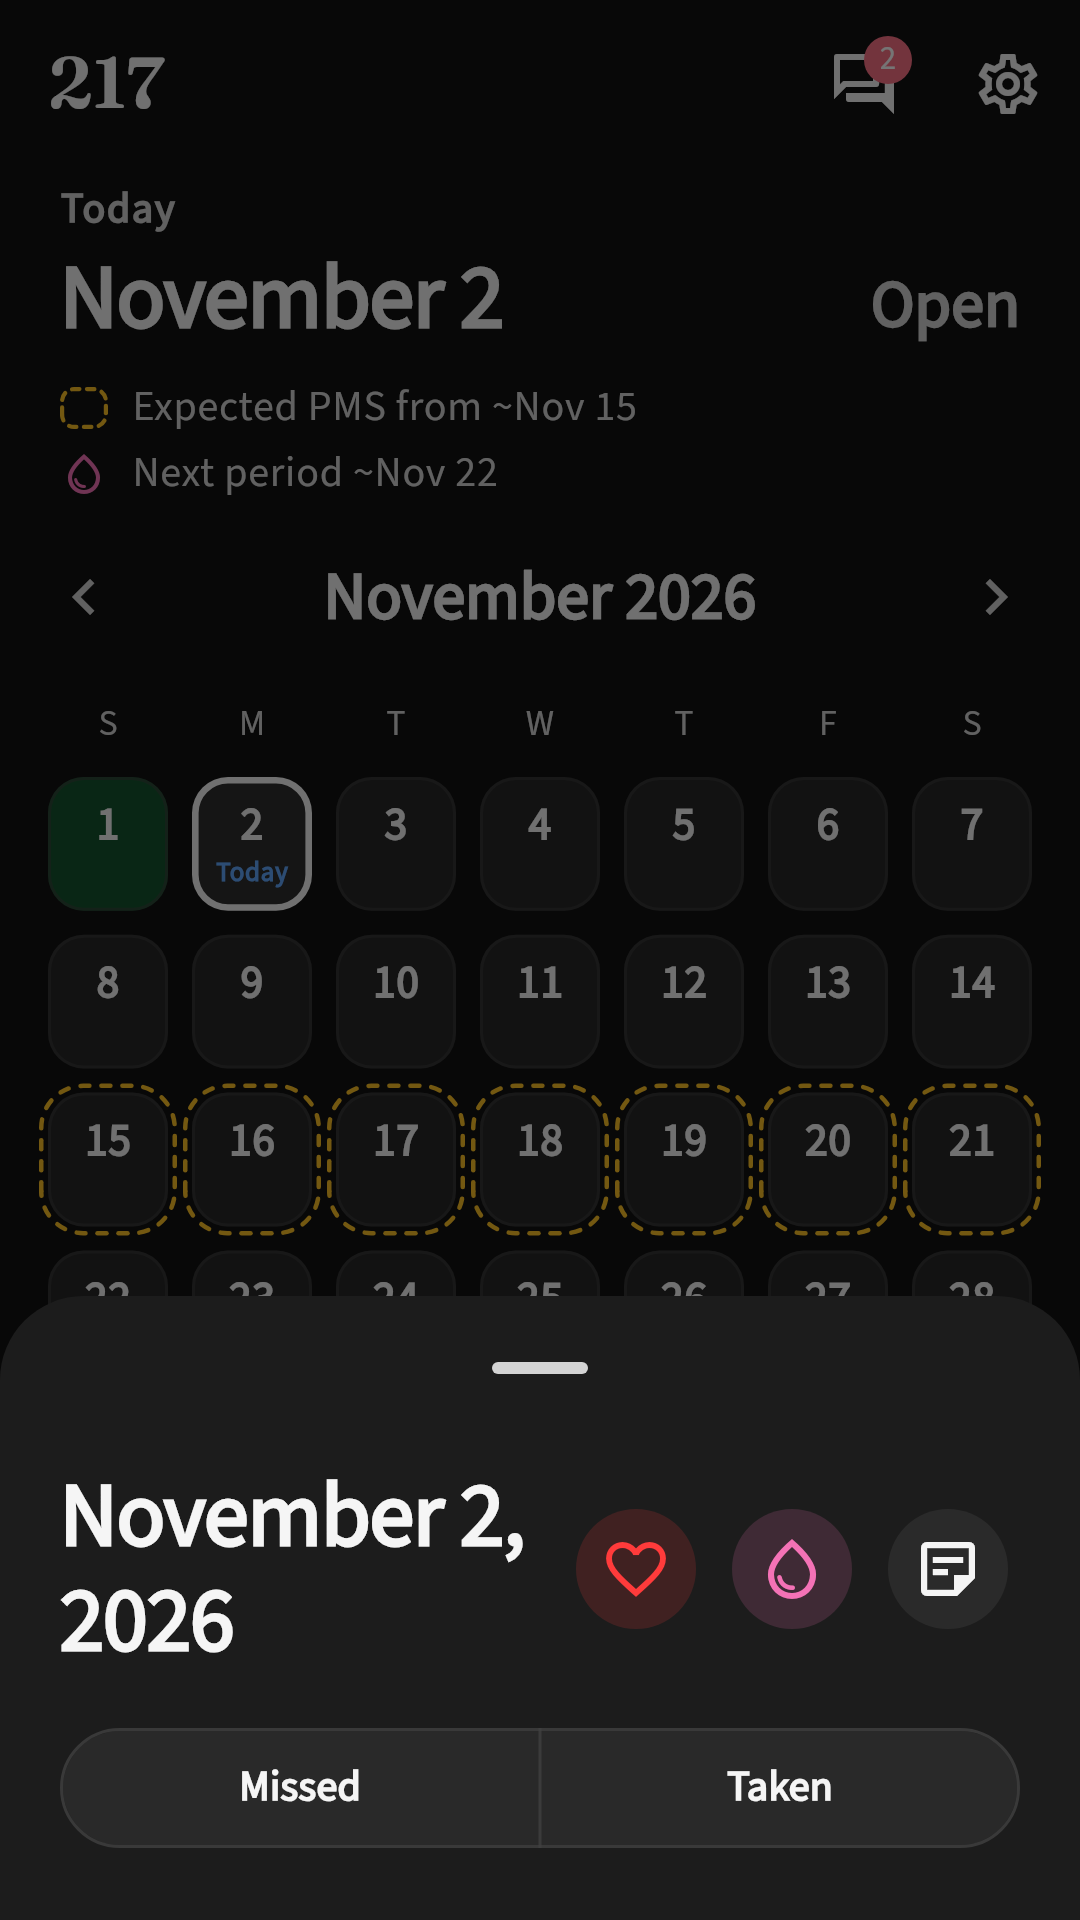
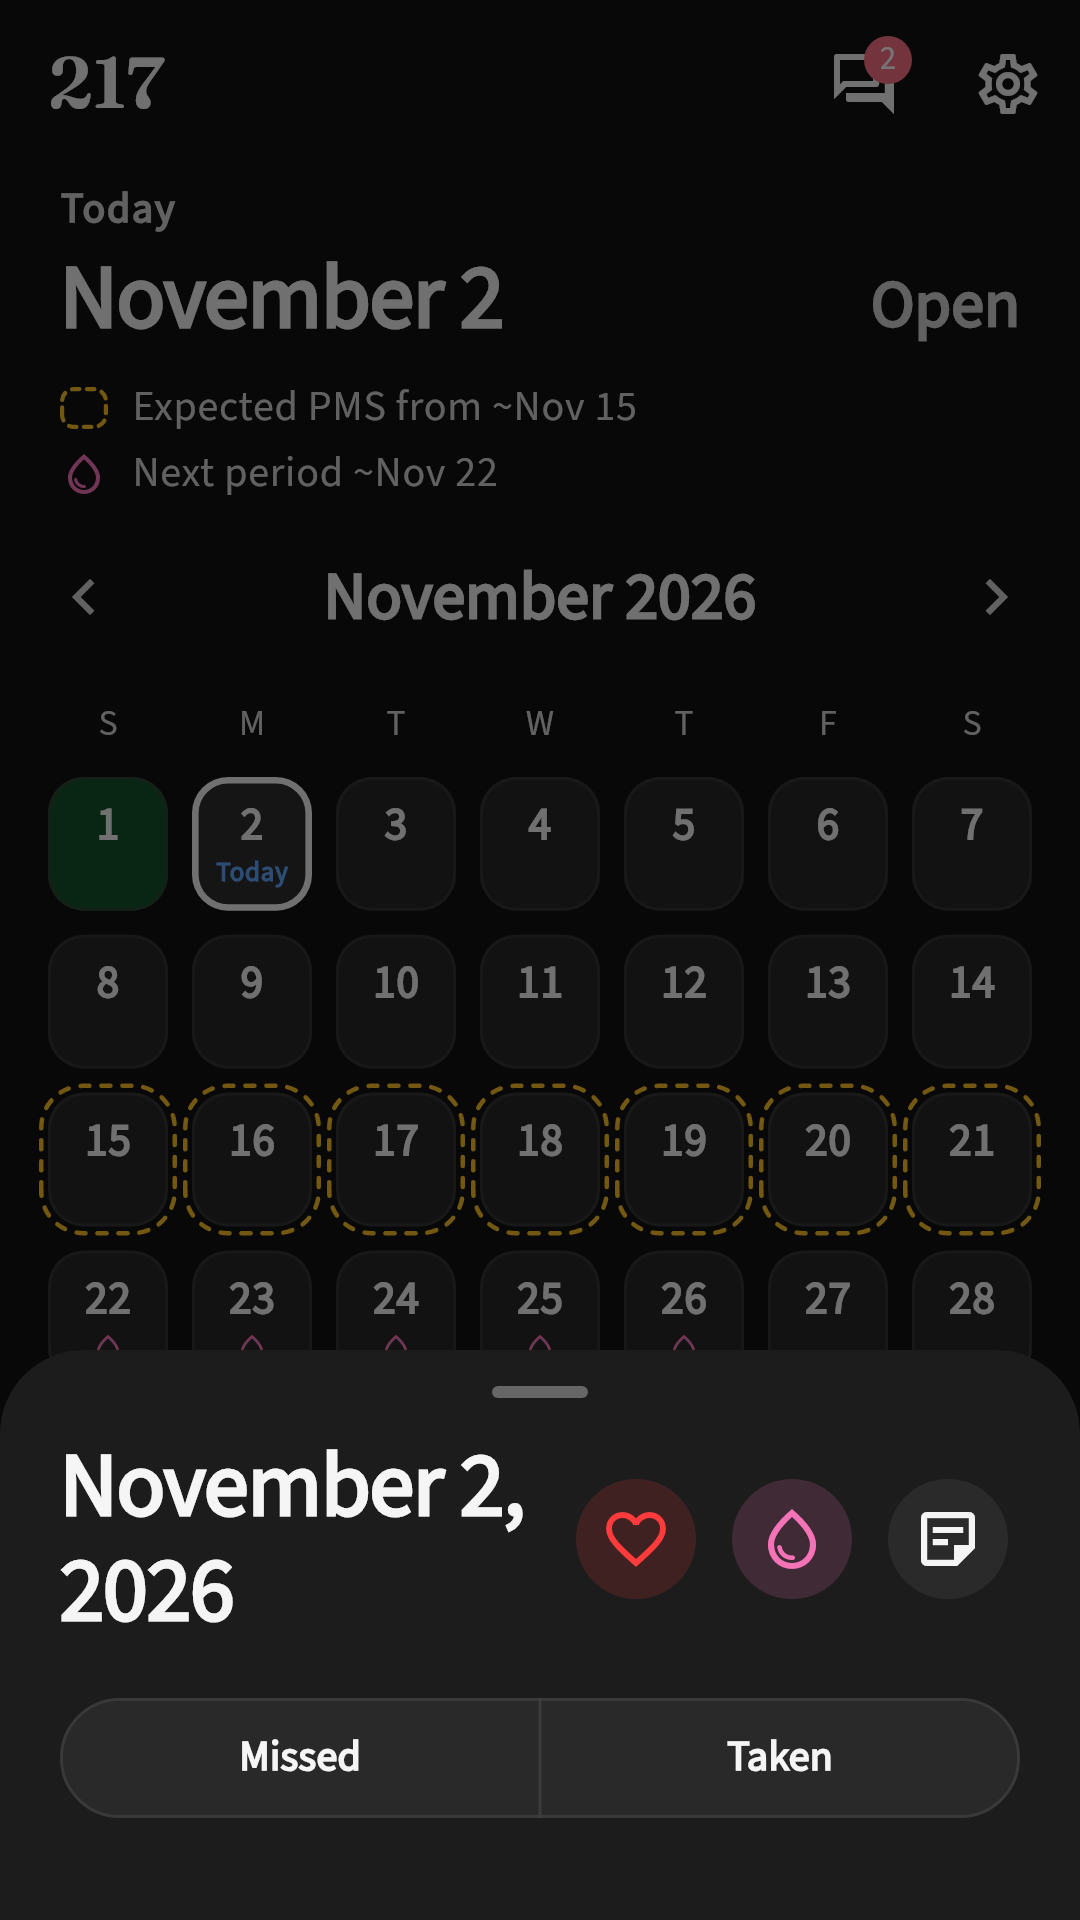
feat(calendar): pull the day sheet up for more (owner and partner) (#114)
* feat(calendar): pull the partner day sheet up for more

The read-only day sheet rests at the owner's size and can be pulled up to
list the day's predictions (expected PMS, predicted period) and the whole
note. Swiping it down dismisses it. Days with nothing more stay put.

* feat(calendar): pull the day sheet up for both owner and partner

One _showDaySheet builds the sheet for both sides (editable for the owner,
read-only for a partner); both can pull it up for predictions and the
whole note, which follows edits made in the sheet.

* chore(assets): re-render store screenshots

---------

diff --git a/frontend/lib/src/screens/day_summary.dart b/frontend/lib/src/screens/day_summary.dart
@@ -596,6 +596,154 @@ Future<void> showDayNoteCard(
   );
 }
 
+/// A day sheet (editable for the owner, read-only for a partner) that can be
+/// pulled up: at rest it is just [sheet]; open it also lists the day's
+/// predictions and the whole note. Swiping it down past its resting height
+/// dismisses it.
+class ExpandableDaySheet extends StatelessWidget {
+  const ExpandableDaySheet({
+    super.key,
+    required this.strings,
+    required this.palette,
+    required this.day,
+    required this.notes,
+    required this.cycleKind,
+    required this.sheet,
+  });
+
+  final Strings strings;
+  final AppPalette palette;
+  final DateTime day;
+
+  /// The day's note, followed live (the owner can change it from [sheet]).
+  final ValueListenable<String> notes;
+  final CycleDayKind cycleKind;
+
+  /// The sheet shown at rest.
+  final Widget sheet;
+
+  /// Height the resting sheet needs, before text scaling.
+  static const _restingHeight = 190.0;
+
+  @override
+  Widget build(BuildContext context) {
+    final scheme = Theme.of(context).colorScheme;
+    final textTheme = Theme.of(context).textTheme;
+    final brightness = Theme.of(context).brightness;
+    final period = App217Colors.period(brightness, palette);
+    final pms = App217Colors.pms(brightness, palette);
+
+    Widget row(Key key, String label, Widget mark) => Padding(
+          key: key,
+          padding: const EdgeInsets.symmetric(vertical: 6),
+          child: Row(children: [
+            SizedBox(width: 20, child: Center(child: mark)),
+            const SizedBox(width: 10),
+            Expanded(
+              child: Text(label,
+                  style: textTheme.bodyLarge?.copyWith(color: scheme.onSurface)),
+            ),
+          ]),
+        );
+
+    List<Widget> extraFor(String notes) => <Widget>[
+      if (cycleKind == CycleDayKind.predictedPeriod)
+        row(
+          const ValueKey('day-more-predicted-period'),
+          strings.predictedPeriod,
+          DayMark(color: period, icon: Icons.water_drop_outlined),
+        ),
+      if (cycleKind == CycleDayKind.pms)
+        row(
+          const ValueKey('day-more-pms'),
+          strings.expectedPms,
+          DayMark(color: pms, dashed: true),
+        ),
+      if (notes.isNotEmpty)
+        Container(
+          key: const ValueKey('day-more-note'),
+          margin: const EdgeInsets.only(top: 8),
+          padding: const EdgeInsets.all(16),
+          decoration: BoxDecoration(
+            color: Color.alphaBlend(
+              scheme.onSurface.withValues(alpha: 0.06),
+              scheme.surface,
+            ),
+            borderRadius: BorderRadius.circular(12),
+            border: Border.all(color: scheme.outline),
+          ),
+          child: Text(
+            notes,
+            style: textTheme.bodyLarge?.copyWith(
+              color: scheme.onSurface,
+              fontSize: 17,
+              height: 1.35,
+            ),
+          ),
+        ),
+    ];
+
+    return ValueListenableBuilder<String>(
+      valueListenable: notes,
+      builder: (context, note, _) => _build(context, extraFor(note)),
+    );
+  }
+
+  Widget _build(BuildContext context, List<Widget> extra) {
+    final scheme = Theme.of(context).colorScheme;
+    return LayoutBuilder(
+      builder: (context, constraints) {
+        final scale = MediaQuery.textScalerOf(context).scale(1);
+        final resting = (_restingHeight * scale / constraints.maxHeight)
+            .clamp(0.15, 0.6);
+        // Nothing more to show: it stays the owner's sheet, size and all.
+        final expandable = extra.isNotEmpty;
+        return DraggableScrollableSheet(
+          expand: false,
+          snap: true,
+          initialChildSize: resting,
+          minChildSize: resting,
+          maxChildSize: expandable ? 0.7 : resting,
+          builder: (context, controller) => Material(
+            color: scheme.surfaceContainerLow,
+            clipBehavior: Clip.antiAlias,
+            shape: const RoundedRectangleBorder(
+              borderRadius: BorderRadius.vertical(top: Radius.circular(28)),
+            ),
+            child: ListView(
+              key: const ValueKey('expandable-day-sheet'),
+              controller: controller,
+              padding: EdgeInsets.zero,
+              children: [
+                Center(
+                  child: Container(
+                    width: 32,
+                    height: 4,
+                    margin: const EdgeInsets.only(top: 12, bottom: 4),
+                    decoration: BoxDecoration(
+                      color: scheme.onSurfaceVariant.withValues(alpha: 0.4),
+                      borderRadius: BorderRadius.circular(2),
+                    ),
+                  ),
+                ),
+                sheet,
+                if (extra.isNotEmpty)
+                  Padding(
+                    padding: const EdgeInsets.fromLTRB(20, 0, 20, 20),
+                    child: Column(
+                      crossAxisAlignment: CrossAxisAlignment.stretch,
+                      children: extra,
+                    ),
+                  ),
+              ],
+            ),
+          ),
+        );
+      },
+    );
+  }
+}
+
 /// Pops the dialog it sits in when [signal] changes.
 class CloseOnSignal extends StatefulWidget {
   const CloseOnSignal({super.key, required this.signal, required this.child});

diff --git a/frontend/lib/src/screens/calendar_screen.dart b/frontend/lib/src/screens/calendar_screen.dart
@@ -992,59 +992,62 @@ class _CalendarScreenState extends State<CalendarScreen>
   /// expected, and nothing can be logged yet.
   Future<void> _openDay(DateTime day) async {
     setState(() => _selected = _isSameDay(day, _today) ? null : day);
-    if (!widget.share.canEditCalendar) {
-      return _viewDay(day);
-    }
+    if (!widget.share.canEditCalendar) return _viewDay(day);
     if (day.isAfter(_today)) return;
-    final key = DateFormat('yyyy-MM-dd').format(day);
-    final existing = _visibleEntry(key);
-    // Persist via onCommit — not the sheet's pop value. Nested note-dialog
-    // → sheet pop races on web and can drop the result (note/heart "save"
-    // that only sticks after Taken/Missed re-tap).
-    await showModalBottomSheet<void>(
-      context: context,
-      isScrollControlled: true,
-      showDragHandle: true,
-      builder: (context) => DayEditorSheet(
-        strings: widget.strings,
-        date: key,
-        initialTaken: existing?.taken,
-        initialNotes: existing?.notes ?? '',
-        initialHeart: existing?.heart ?? false,
-        initialPeriod: existing?.period ?? false,
-        hadEntry: existing != null,
-        onCommit: (result) {
-          _persistDay(key, result).catchError((Object err) {
-            if (mounted && !_handleConsentFailure(err, closeDayEditor: true)) {
-              setState(() => _error = friendlyError(widget.strings, err));
-            }
-          });
-        },
-      ),
-    );
+    return _showDaySheet(day, readOnly: false);
   }
 
-  /// The owner's day sheet, read-only: a partner sees the same marks and note
-  /// but cannot change them. Closes when calendar access is cleared.
-  Future<void> _viewDay(DateTime day) {
+  /// A partner's view of [day]: the owner's sheet with nothing to change.
+  Future<void> _viewDay(DateTime day) => _showDaySheet(day, readOnly: true);
+
+  /// The one day sheet, for both sides: the owner edits in it, a partner
+  /// only reads it (and it closes when calendar access is cleared). Either
+  /// can pull it up for what else is known about the day (predictions, the
+  /// whole note).
+  Future<void> _showDaySheet(DateTime day, {required bool readOnly}) {
     final key = DateFormat('yyyy-MM-dd').format(day);
     final existing = _visibleEntry(key);
+    // The pulled-up part follows the note as the owner edits it.
+    final notes = ValueNotifier<String>(existing?.notes.trim() ?? '');
     return showModalBottomSheet<void>(
       context: context,
       isScrollControlled: true,
-      showDragHandle: true,
-      builder: (context) => DayEditorSheet(
+      // The expandable sheet draws its own surface and handle.
+      backgroundColor: Colors.transparent,
+      builder: (context) => ExpandableDaySheet(
         strings: widget.strings,
-        date: key,
-        initialTaken: existing?.taken,
-        initialNotes: existing?.notes ?? '',
-        initialHeart: existing?.heart ?? false,
-        initialPeriod: existing?.period ?? false,
-        hadEntry: existing != null,
-        readOnly: true,
-        closeSignal: _accessCleared,
+        palette: widget.palette,
+        day: day,
+        notes: notes,
+        cycleKind: _cycle.kindOf(day),
+        sheet: DayEditorSheet(
+          strings: widget.strings,
+          date: key,
+          initialTaken: existing?.taken,
+          initialNotes: existing?.notes ?? '',
+          initialHeart: existing?.heart ?? false,
+          initialPeriod: existing?.period ?? false,
+          hadEntry: existing != null,
+          readOnly: readOnly,
+          closeSignal: readOnly ? _accessCleared : null,
+          // Persist via onCommit — not the sheet's pop value. Nested note
+          // dialog → sheet pop races on web and can drop the result (note/
+          // heart "save" that only sticks after Taken/Missed re-tap).
+          onCommit: readOnly
+              ? null
+              : (result) {
+                  notes.value = result.clear ? '' : result.notes;
+                  _persistDay(key, result).catchError((Object err) {
+                    if (mounted &&
+                        !_handleConsentFailure(err, closeDayEditor: true)) {
+                      setState(
+                          () => _error = friendlyError(widget.strings, err));
+                    }
+                  });
+                },
+        ),
       ),
-    );
+    ).whenComplete(notes.dispose);
   }
 
   @override

diff --git a/frontend/test/partner_day_card_test.dart b/frontend/test/partner_day_card_test.dart
@@ -207,6 +207,81 @@ void main() {
     expect(find.byType(DayEditorSheet), findsNothing);
   });
 
+
+  testWidgets('partner pulls the sheet up for more, down to close',
+      (tester) async {
+    await tester.binding.setSurfaceSize(const Size(390, 844));
+    addTearDown(() => tester.binding.setSurfaceSize(null));
+    const longNote = 'A long note that the resting sheet does not spell out '
+        'in full but the expanded one does.';
+    await tester.pumpWidget(_app(_calendar(entries: [
+      Entry(date: _key(today), taken: true, notes: longNote),
+    ])));
+    await tester.pumpAndSettle();
+    await tester.tap(find.byKey(const ValueKey('view-day-button')));
+    await tester.pumpAndSettle();
+
+    final sheet = find.byKey(const ValueKey('expandable-day-sheet'));
+    final restingTop = tester.getTopLeft(sheet).dy;
+    expect(find.byKey(const ValueKey('day-more-note')), findsOneWidget);
+    expect(find.byType(DayEditorSheet), findsOneWidget);
+
+    await tester.drag(sheet, const Offset(0, -300));
+    await tester.pumpAndSettle();
+    expect(tester.getTopLeft(sheet).dy, lessThan(restingTop));
+    expect(find.text(longNote), findsOneWidget);
+    expect(
+      tester
+          .widget<SegmentedButton<bool>>(find.byType(SegmentedButton<bool>))
+          .onSelectionChanged,
+      isNull,
+    );
+
+    await tester.fling(sheet, const Offset(0, 600), 2000);
+    await tester.pumpAndSettle();
+    expect(find.byType(DayEditorSheet), findsNothing);
+  });
+
+  testWidgets('a day with nothing more keeps the owner-sized sheet',
+      (tester) async {
+    await tester.binding.setSurfaceSize(const Size(390, 844));
+    addTearDown(() => tester.binding.setSurfaceSize(null));
+    await tester.pumpWidget(_app(_calendar(entries: const [])));
+    await tester.pumpAndSettle();
+    await tester.tap(find.byKey(const ValueKey('view-day-button')));
+    await tester.pumpAndSettle();
+
+    final sheet = find.byKey(const ValueKey('expandable-day-sheet'));
+    final top = tester.getTopLeft(sheet).dy;
+    expect(find.byKey(const ValueKey('day-more-note')), findsNothing);
+    await tester.drag(sheet, const Offset(0, -300));
+    await tester.pumpAndSettle();
+    expect(tester.getTopLeft(sheet).dy, top);
+  });
+
+  testWidgets('the owner pulls the same sheet up, and it follows the note',
+      (tester) async {
+    await tester.binding.setSurfaceSize(const Size(390, 844));
+    addTearDown(() => tester.binding.setSurfaceSize(null));
+    await tester.pumpWidget(_app(_calendar(
+      entries: [Entry(date: _key(today), taken: true, notes: 'First note')],
+      user: const User(id: 'o', email: 'o@b.c', name: 'O'),
+      share: const ShareState(status: 'none'),
+    )));
+    await tester.pumpAndSettle();
+    await tester.tap(find.byKey(const ValueKey('update-day-button')));
+    await tester.pumpAndSettle();
+
+    final sheet = find.byKey(const ValueKey('expandable-day-sheet'));
+    final restingTop = tester.getTopLeft(sheet).dy;
+    await tester.drag(sheet, const Offset(0, -300));
+    await tester.pumpAndSettle();
+    expect(tester.getTopLeft(sheet).dy, lessThan(restingTop));
+    expect(find.text('First note'), findsOneWidget);
+    // Still the editor: its controls work.
+    expect(_disabled(tester, const ValueKey('day-heart-toggle')), isFalse);
+  });
+
   testWidgets('owner still gets the editor, not the read-only sheet',
       (tester) async {
     await tester.binding.setSurfaceSize(const Size(390, 844));
